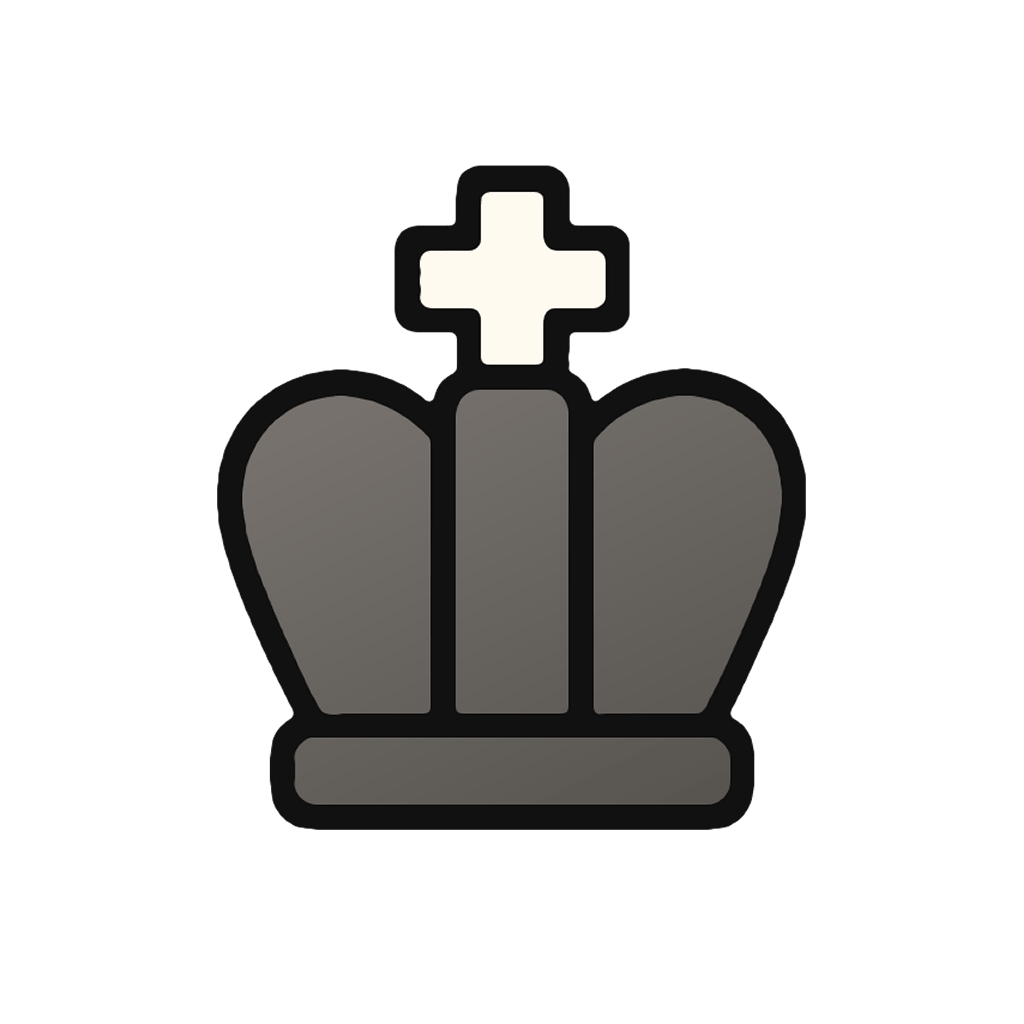
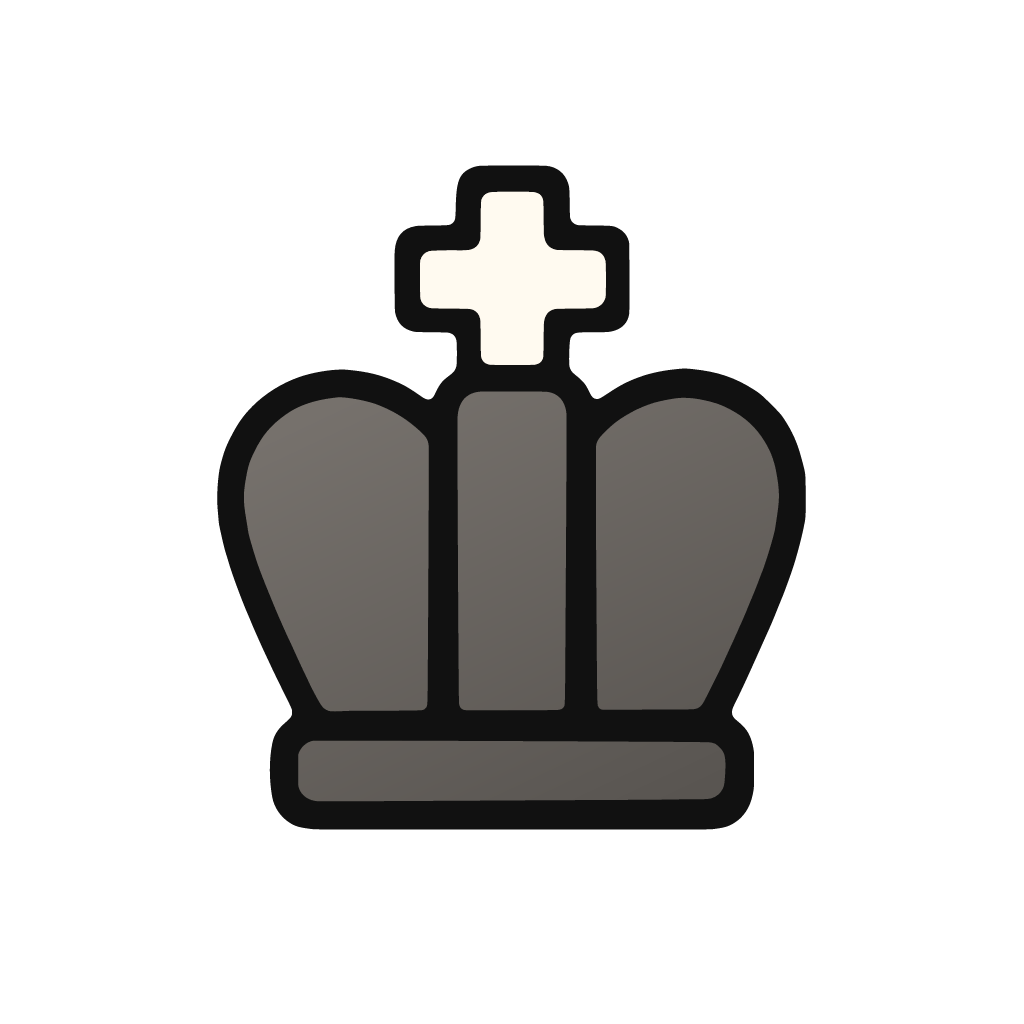
feat(pieces): smooth edges on the international set
The international figures came from thresholded raster masks, so their
outlines wobbled and line weight varied along a stroke (most visible on
the chariot). Chariot, advisor and cannon are redrawn from geometry at
one 25px line width with round joins and a fill gradient fitted to the
old colours; the curved figures (general, elephant, horse, soldiers) are
re-traced with a sigma-4 blur before thresholding. The square-board
cannon is the same redraw turned 2 degrees and grown 6%, as before.
Files are palette-quantized (636K to 240K, max error 2/255).

Bumps the art to ?v=17 and every share-card version, and refreshes the
fingerprints the cache-version test pins.

Lesson: art that is all straight lines should be redrawn as geometry with one stroke width, since smoothing a traced raster cannot make a wobbling line hold an even thickness.
Lesson-class: graphics
Lesson-scope: code
Lesson-trigger: bug
Lesson-stack: python, svg

diff --git a/apps/server/src/og-image.test.ts b/apps/server/src/og-image.test.ts
@@ -144,29 +144,29 @@ test('the article card route serves each aspect at its size, board and site card
   // re-framed.
   for (const slug of ['jungle', 'banqi', 'pikafish', 'jieqi-platform']) {
     for (const [aspect, [width, height]] of Object.entries(expected)) {
-      const res = await getRoute(`/og/article/${slug}.png?v=6&aspect=${aspect}`);
+      const res = await getRoute(`/og/article/${slug}.png?v=7&aspect=${aspect}`);
       assert.equal(res.status, 200, `${slug} ${aspect}`);
       assert.equal(res.headers['content-type'], 'image/png');
       assert.deepEqual(pngSize(res.body), { width, height }, `${slug} ${aspect}`);
     }
   }
   // The wide card is untouched: still 2400x1260 with no aspect.
-  const wide = await getRoute('/og/article/jungle.png?v=6');
+  const wide = await getRoute('/og/article/jungle.png?v=7');
   assert.deepEqual(pngSize(wide.body), { width: 2400, height: 1260 });
 });
 
 test('an unknown aspect is a 400, never the wide card under a square URL', async () => {
   for (const bad of ['2x1', '1X1', '', 'square']) {
-    const res = await getRoute(`/og/article/jungle.png?v=6&aspect=${bad}`);
+    const res = await getRoute(`/og/article/jungle.png?v=7&aspect=${bad}`);
     assert.equal(res.status, 400, JSON.stringify(bad));
     assert.notEqual(res.headers['content-type'], 'image/png');
   }
 });
 
 test('a hand-drawn card has no aspect versions and says so with a 404', async () => {
-  const res = await getRoute('/og/article/yin-sheng.png?v=6&aspect=1x1');
+  const res = await getRoute('/og/article/yin-sheng.png?v=7&aspect=1x1');
   assert.equal(res.status, 404);
-  const unknown = await getRoute('/og/article/no-such-article.png?v=6&aspect=1x1');
+  const unknown = await getRoute('/og/article/no-such-article.png?v=7&aspect=1x1');
   assert.equal(unknown.status, 404);
 });
 
@@ -182,9 +182,9 @@ test('a xiangqi-family card has a zh version per script at every shape', async (
   assert.ok(!ARTICLE_OG_ZH_SLUGS.includes('jungle'), 'animal pieces have no hanzi set');
   for (const slug of ['banqi', 'pikafish']) {
     for (const shape of ['', '&aspect=16x9', '&aspect=4x3', '&aspect=1x1']) {
-      const plain = await getRoute(`/og/article/${slug}.png?v=6${shape}`);
-      const hans = await getRoute(`/og/article/${slug}.png?v=6&lang=zh-hans${shape}`);
-      const hant = await getRoute(`/og/article/${slug}.png?v=6&lang=zh-hant${shape}`);
+      const plain = await getRoute(`/og/article/${slug}.png?v=7${shape}`);
+      const hans = await getRoute(`/og/article/${slug}.png?v=7&lang=zh-hans${shape}`);
+      const hant = await getRoute(`/og/article/${slug}.png?v=7&lang=zh-hant${shape}`);
       for (const [name, res] of [
         ['zh-hans', hans],
         ['zh-hant', hant],
@@ -229,19 +229,19 @@ test('every zh card captions in its own script, at full size, from the published
 
 test('an unknown lang is a 400 and a card with no zh version is a 404', async () => {
   for (const bad of ['zh', 'zh-Hant', 'zh-tw', 'en', 'traditional', '']) {
-    const res = await getRoute(`/og/article/banqi.png?v=6&lang=${bad}`);
+    const res = await getRoute(`/og/article/banqi.png?v=7&lang=${bad}`);
     assert.equal(res.status, 400, JSON.stringify(bad));
     assert.notEqual(res.headers['content-type'], 'image/png');
   }
   // The retired pre-release parameter is not quietly honoured either.
-  const old = await getRoute('/og/article/banqi.png?v=6&pieces=traditional');
-  const plain = await getRoute('/og/article/banqi.png?v=6');
+  const old = await getRoute('/og/article/banqi.png?v=7&pieces=traditional');
+  const plain = await getRoute('/og/article/banqi.png?v=7');
   assert.ok(old.body.equals(plain.body), 'pieces= is ignored, not mapped to a zh card');
   for (const path of [
-    '/og/article/jungle.png?v=6&lang=zh-hant',
-    '/og/article/yin-sheng.png?v=6&lang=zh-hant',
-    '/og/article/jieqi-platform.png?v=6&lang=zh-hans&aspect=1x1',
-    '/og/article/no-such-article.png?v=6&lang=zh-hans',
+    '/og/article/jungle.png?v=7&lang=zh-hant',
+    '/og/article/yin-sheng.png?v=7&lang=zh-hant',
+    '/og/article/jieqi-platform.png?v=7&lang=zh-hans&aspect=1x1',
+    '/og/article/no-such-article.png?v=7&lang=zh-hans',
   ]) {
     const res = await getRoute(path);
     assert.equal(res.status, 404, path);
@@ -482,18 +482,18 @@ test('every mid-game rules card is a legal line, replayed by its kernel', async 
 test("a zh page names its script's card; the English page and other boards do not", async () => {
   const { articleOgImageUrl } = await import('./og-image.js');
   const host = 'https://mistboard.com';
-  assert.equal(articleOgImageUrl(host, 'banqi'), `${host}/og/article/banqi.png?v=6`);
+  assert.equal(articleOgImageUrl(host, 'banqi'), `${host}/og/article/banqi.png?v=7`);
   for (const prefix of ['zh-hans', 'zh-hant']) {
     for (const slug of ['banqi', 'pikafish']) {
       assert.equal(
         articleOgImageUrl(host, slug, prefix),
-        `${host}/og/article/${slug}.png?v=6&lang=${prefix}`,
+        `${host}/og/article/${slug}.png?v=7&lang=${prefix}`,
       );
     }
-    assert.equal(articleOgImageUrl(host, 'jungle', prefix), `${host}/og/article/jungle.png?v=6`);
+    assert.equal(articleOgImageUrl(host, 'jungle', prefix), `${host}/og/article/jungle.png?v=7`);
   }
   for (const other of ['vi', 'zh', 'en']) {
-    assert.equal(articleOgImageUrl(host, 'banqi', other), `${host}/og/article/banqi.png?v=6`);
+    assert.equal(articleOgImageUrl(host, 'banqi', other), `${host}/og/article/banqi.png?v=7`);
   }
 });
 

diff --git a/apps/server/src/og-image.ts b/apps/server/src/og-image.ts
@@ -56,7 +56,8 @@ export {
 // v5 (2026-09-12): the shared board card (one board, seats beside it) in place
 // of the two-fog-view frame.
 // v6 (2026-10-15): the piece look of 2026-10-14: one dark ring on both sides, pieces at 98% of the point gap (banqi 92%), no shadow, full-size face-down backs, Jungle rounded squares.
-export const GAME_OG_IMAGE_VERSION = 6;
+// v7 (2026-10-15): the international pieces with smooth edges, one line width on the straight figures.
+export const GAME_OG_IMAGE_VERSION = 7;
 
 // Bounded LRU of rendered per-game PNGs. Each card is rendered once on first
 // scraper fetch, then served from here (and from the scraper/CDN cache, via the
@@ -369,7 +370,8 @@ const ARTICLE_POSITION_KEY: Record<string, string> = {
 //  pikafish gets a board card instead of the site card. The ?lang= and
 //  ?aspect= URLs are new with v5, so no older URL ever named them.
 //  v6 (2026-10-15): the piece look of 2026-10-14: one dark ring on both sides, pieces at 98% of the point gap (banqi 92%), no shadow, full-size face-down backs, Jungle rounded squares.
-export const ARTICLE_OG_IMAGE_VERSION = 6;
+//  v7 (2026-10-15): the international pieces with smooth edges, one line width on the straight figures.
+export const ARTICLE_OG_IMAGE_VERSION = 7;
 
 /** The page's wide card URL (og:image), as the server-rendered article shell
  *  writes it. A zh page (`langPrefix` zh-hans / zh-hant) of a slug with a zh
@@ -578,7 +580,8 @@ async function serveArticleAspectImage(params: {
 //  full height with the title beside it (og-card-board.ts). */
 //  v4 (2026-09-25): Chinese study and chapter titles render instead of boxes.
 //  v6 (2026-10-15): the piece look of 2026-10-14: one dark ring on both sides, pieces at 98% of the point gap (banqi 92%), no shadow, full-size face-down backs, Jungle rounded squares.
-export const STUDY_OG_IMAGE_VERSION = 6;
+//  v7 (2026-10-15): the international pieces with smooth edges, one line width on the straight figures.
+export const STUDY_OG_IMAGE_VERSION = 7;
 
 // Per-composition share card: the chapter's own starting diagram plus its name.
 // A 排局 IS its diagram, so a link to one composition should preview that

diff --git a/apps/web/src/xiangqi-piece-sets.test.ts b/apps/web/src/xiangqi-piece-sets.test.ts
@@ -75,8 +75,8 @@ describe('renderXiangqiPieceGlyphed', () => {
     const cannon = renderXiangqiPieceGlyphed({ color: 'black', role: 'cannon' }, 'international', {
       className: 'xq-piece',
     });
-    expect(general).toContain('/piece-sets/xiangqi/international/red-general.png?v=16');
-    expect(cannon).toContain('/piece-sets/xiangqi/international/black-cannon.png?v=16');
+    expect(general).toContain('/piece-sets/xiangqi/international/red-general.png?v=17');
+    expect(cannon).toContain('/piece-sets/xiangqi/international/black-cannon.png?v=17');
     expect(general).toContain('x="-7" y="-7" width="114" height="114"');
     expect(cannon).toContain('x="-11" y="-11" width="122" height="122"');
     expect(cannon).toContain('class="xq-piece"');
@@ -108,15 +108,15 @@ describe('renderXiangqiPieceGlyphed', () => {
     const international = renderXiangqiPieceGlyphed(piece, 'international', { crossed: true });
 
     expect(international).toContain(
-      '/piece-sets/xiangqi/international/red-crossed-soldier.png?v=16',
+      '/piece-sets/xiangqi/international/red-crossed-soldier.png?v=17',
     );
   });
 
   it('renders the international Fortress treasure from the generated cutout art', () => {
     const red = internationalTreasureMarks('red');
     const black = internationalTreasureMarks('black');
-    expect(red).toContain('/piece-sets/xiangqi/international/red-treasure.png?v=16');
-    expect(black).toContain('/piece-sets/xiangqi/international/black-treasure.png?v=16');
+    expect(red).toContain('/piece-sets/xiangqi/international/red-treasure.png?v=17');
+    expect(black).toContain('/piece-sets/xiangqi/international/black-treasure.png?v=17');
     // Two units below the other 114-unit figures: the diamond is top-heavy.
     expect(red).toContain('x="-7" y="-5" width="114" height="114"');
     expect(red).toContain('fill="#fef0d7"');

diff --git a/apps/server/src/og-position.ts b/apps/server/src/og-position.ts
@@ -74,7 +74,8 @@ import { createPngCache, redirectToDefault, svgToPng, writePng } from './og-rast
 // v2 (2026-09-12): the live board and the site's default piece set, board at full
 // height with the caption beside it (og-card-board.ts).
 // v4 (2026-10-15): the piece look of 2026-10-14: one dark ring on both sides, pieces at 98% of the point gap (banqi 92%), no shadow, full-size face-down backs, Jungle rounded squares.
-export const POSITION_OG_IMAGE_VERSION = 4;
+// v5 (2026-10-15): the international pieces with smooth edges, one line width on the straight figures.
+export const POSITION_OG_IMAGE_VERSION = 5;
 
 /** Variants with a position card, i.e. the /analysis and /editor catalog. Slugs
  *  double as GameSpecIds. Order is the analysis dropdown's. */

diff --git a/apps/web/src/xiangqi-piece-sets.ts b/apps/web/src/xiangqi-piece-sets.ts
@@ -593,7 +593,9 @@ export function assetTreasureMarks(set: AssetXiangqiPieceSet, color: XiangqiColo
 const ANIMAL_ART_VERSION = 4;
 // 16 (2026-10-14): the figures rebuilt from the Chess-style art, grown to radius
 // 43, ivory tusks and advisor neck band, cannon turned 15 degrees.
-const INTERNATIONAL_ART_VERSION = 16;
+// 17 (2026-10-15): smooth edges. Chariot, advisor and cannon redrawn from geometry
+// at one line width; the curved figures re-traced with the wobble smoothed out.
+const INTERNATIONAL_ART_VERSION = 17;
 
 // On the square grid the cannon has a figure of its own (international-grid/):
 // turned 17 degrees and 6% bigger, so it clears the square's inner edge. Every

diff --git a/apps/server/src/og-broadcast.ts b/apps/server/src/og-broadcast.ts
@@ -21,7 +21,8 @@ import { createPngCache, redirectToDefault, svgToPng, writePng } from './og-rast
 import * as persistence from './persistence.js';
 
 // v3 (2026-10-15): the piece look of 2026-10-14: one dark ring on both sides, pieces at 98% of the point gap (banqi 92%), no shadow, full-size face-down backs, Jungle rounded squares.
-export const BROADCAST_OG_IMAGE_VERSION = 3;
+// v4 (2026-10-15): the international pieces with smooth edges, one line width on the straight figures.
+export const BROADCAST_OG_IMAGE_VERSION = 4;
 
 const cache = createPngCache(64);
 

diff --git a/apps/server/src/player-pages.ts b/apps/server/src/player-pages.ts
@@ -26,7 +26,8 @@ import {
 import { escapeHtml } from './study-page-body.js';
 
 // v3 (2026-10-15): the piece look of 2026-10-14: one dark ring on both sides, pieces at 98% of the point gap (banqi 92%), no shadow, full-size face-down backs, Jungle rounded squares.
-export const PLAYER_OG_IMAGE_VERSION = 3;
+// v4 (2026-10-15): the international pieces with smooth edges, one line width on the straight figures.
+export const PLAYER_OG_IMAGE_VERSION = 4;
 
 /** Games listed in a player's crawler body, newest first. */
 const BODY_GAME_CAP = 60;

diff --git a/apps/web/src/article-og-image.ts b/apps/web/src/article-og-image.ts
@@ -8,7 +8,7 @@
 /** Mirrors ARTICLE_OG_IMAGE_VERSION in apps/server/src/og-image.ts. Scrapers
  *  hold a card under its URL with a year-long immutable max-age, so the LOOK of
  *  a card can only change behind a new ?v=. */
-export const ARTICLE_OG_IMAGE_VERSION = 6;
+export const ARTICLE_OG_IMAGE_VERSION = 7;
 
 /** The shapes Google asks for in an Article's `image` (it crops a single wide
  *  card to a square in some surfaces, which cut the caption), widest first. */

diff --git a/apps/web/src/xiangqi-pieces.test.ts b/apps/web/src/xiangqi-pieces.test.ts
@@ -71,7 +71,7 @@ describe('xiangqi piece sprites', () => {
       { color: 'red', role: 'general' },
       { pieceSet: 'international' },
     );
-    expect(svg).toContain('/piece-sets/xiangqi/international/red-general.png?v=16');
+    expect(svg).toContain('/piece-sets/xiangqi/international/red-general.png?v=17');
     // One dark ring on both sides (2026-10-14).
     expect(svg).toContain('stroke="#202427"');
     expect(svg).not.toContain(XIANGQI_GLYPH_PATHS.帥);
